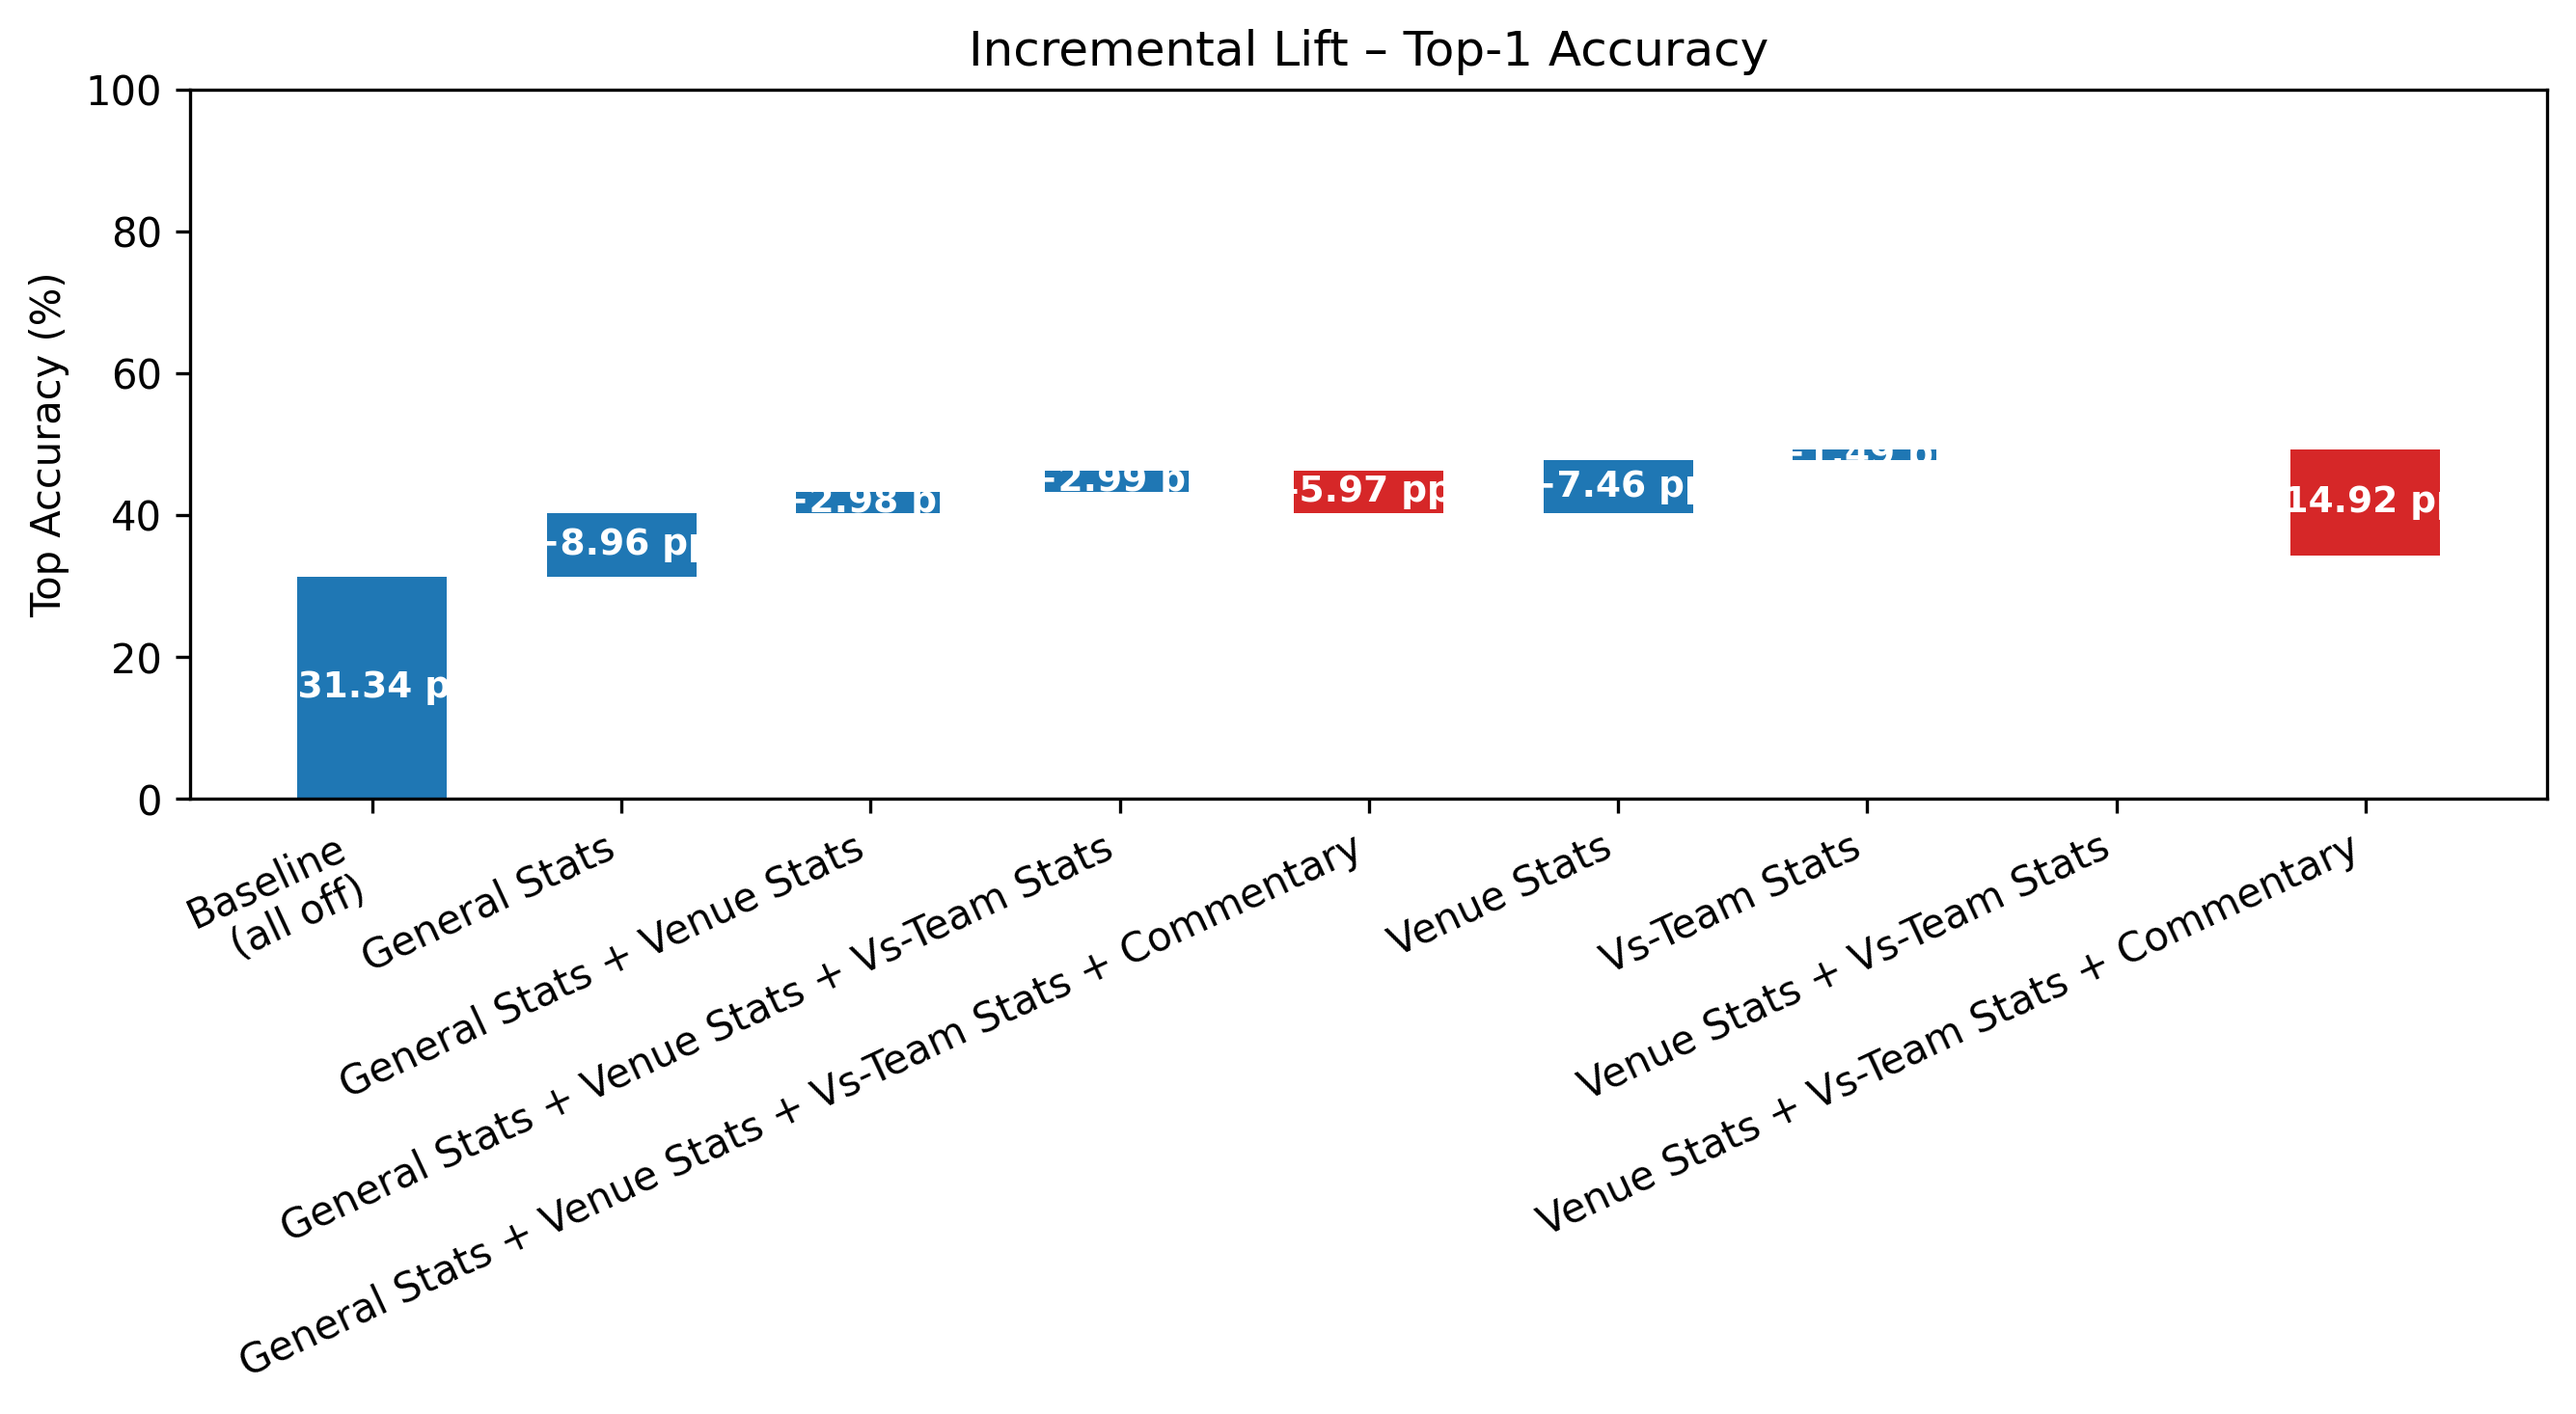
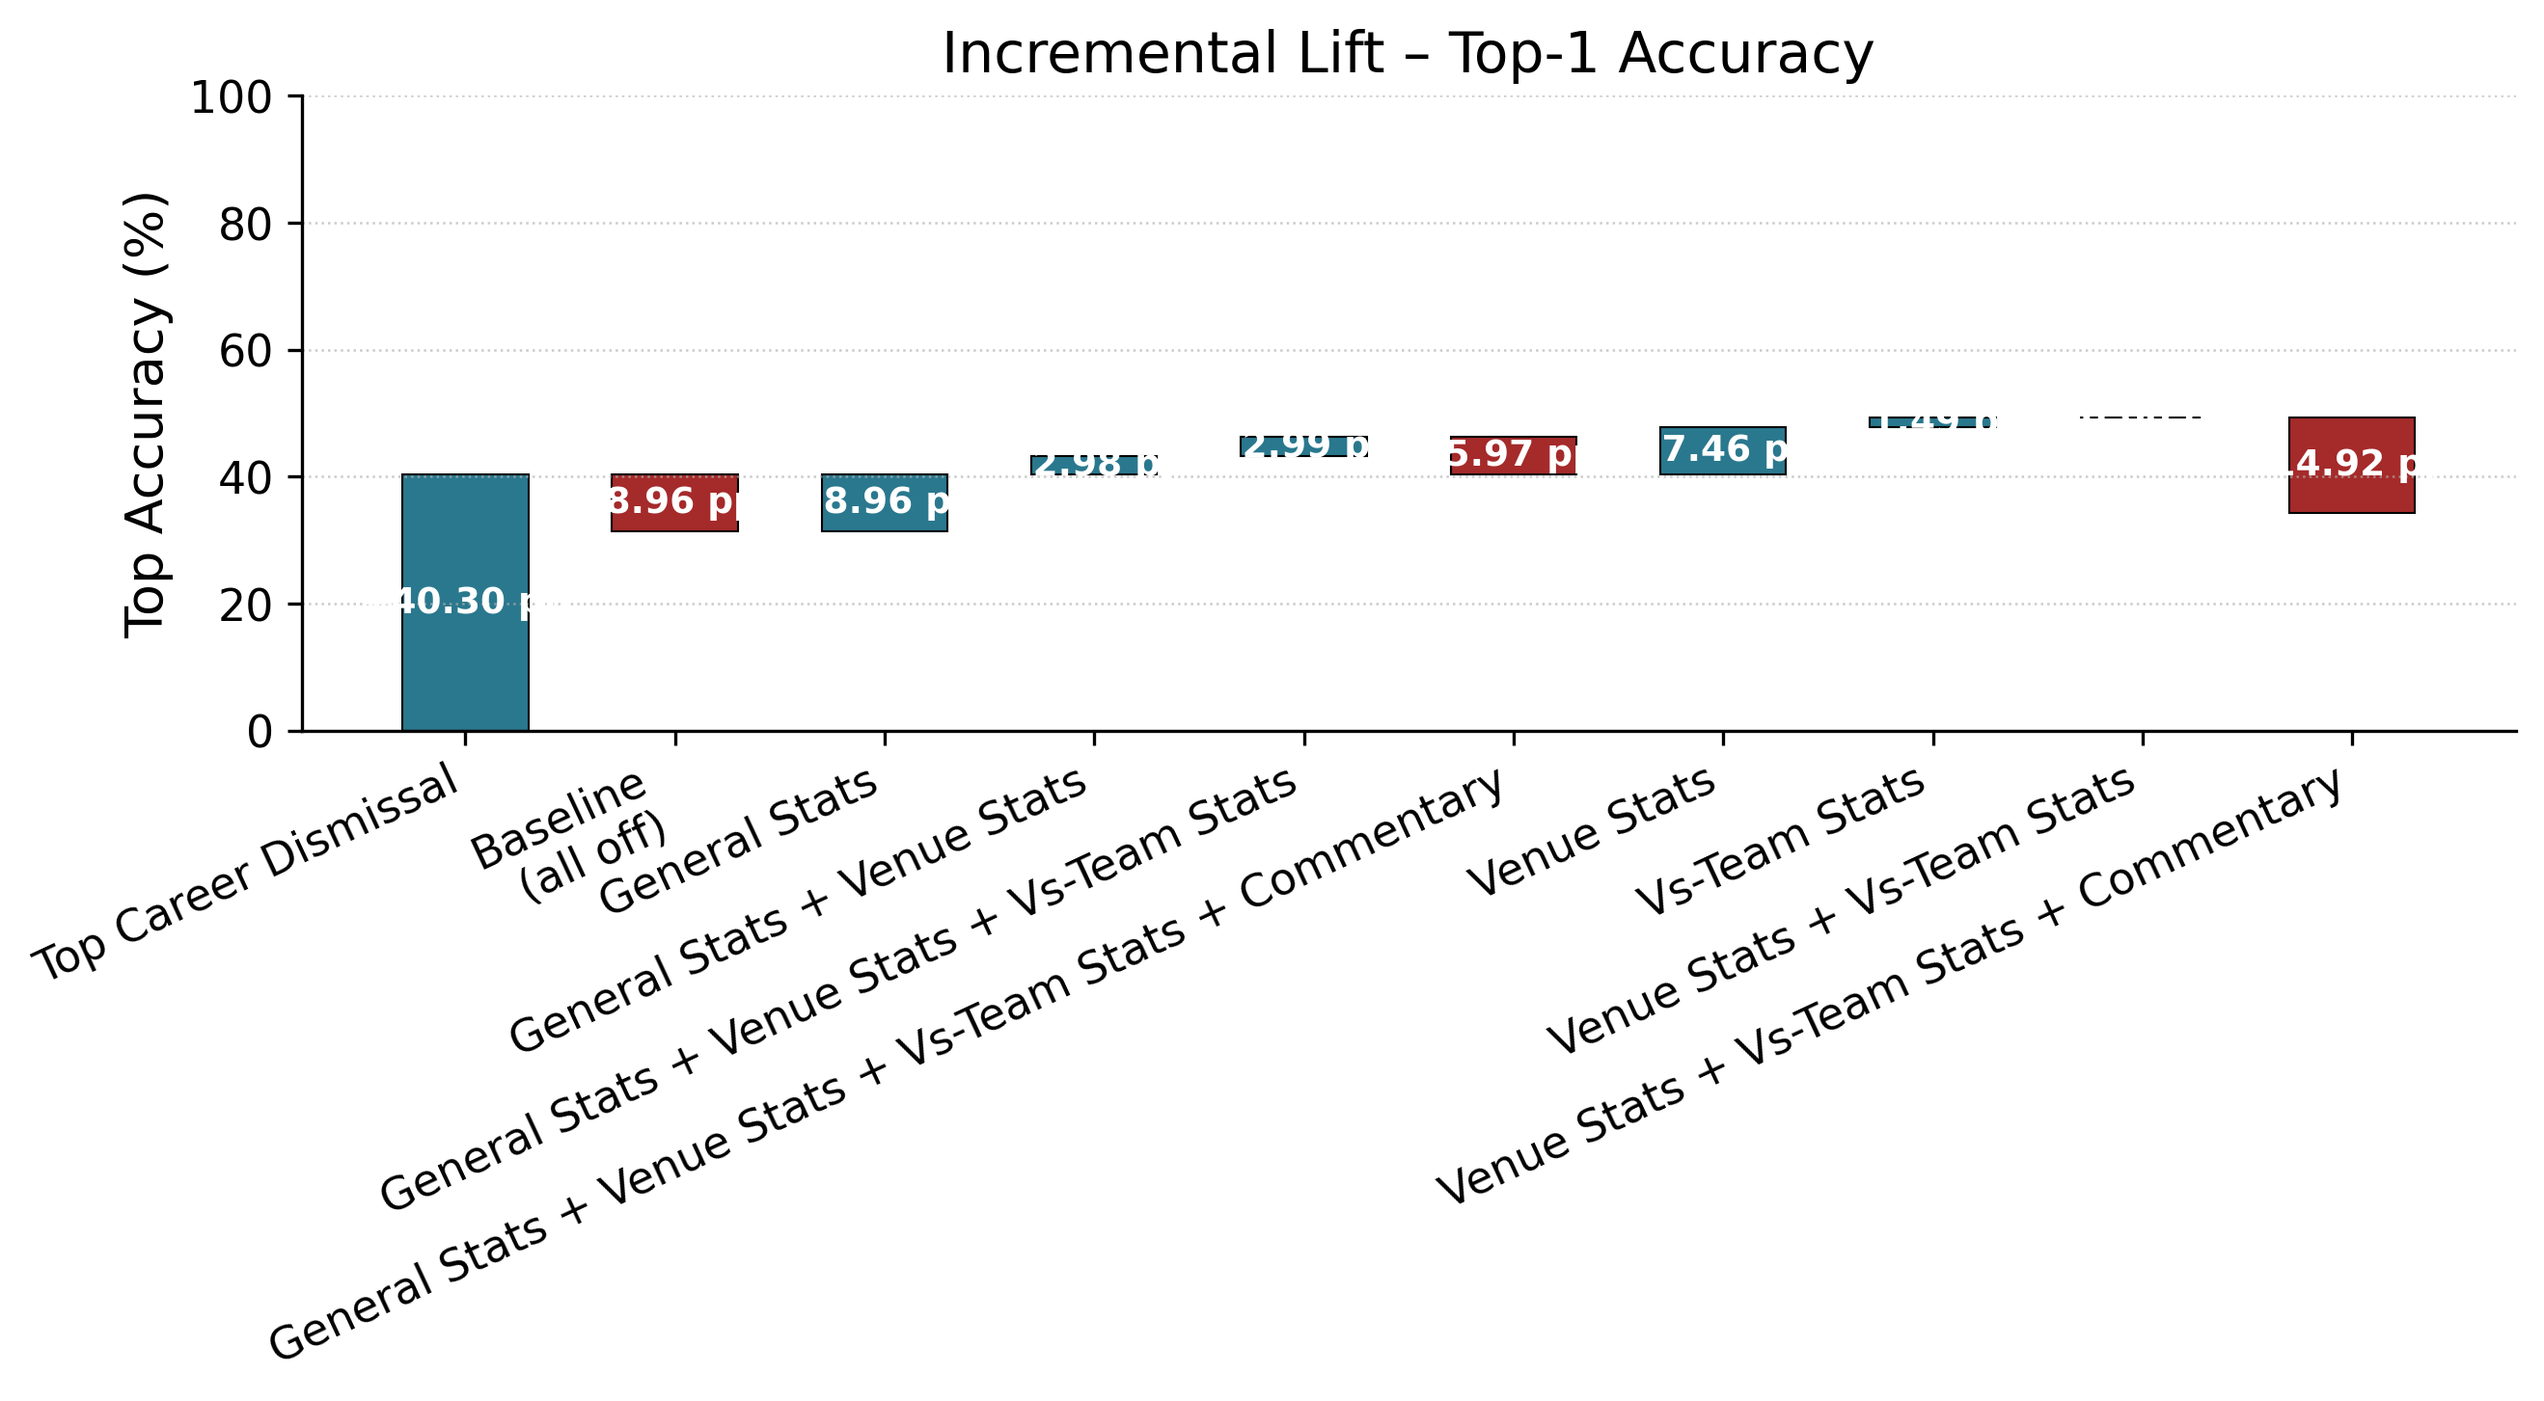
plotting corrections all done

diff --git a/llm/plot_acc.py b/llm/plot_acc.py
@@ -3,12 +3,28 @@ import numpy as np
 import matplotlib.pyplot as plt
 import os
 from scipy.stats import norm
+import subprocess
+import json
+
+plt.rcParams.update({
+    "font.size": 12,
+    "axes.titlesize": 14,
+    "axes.labelsize": 13,
+    "xtick.labelsize": 11,
+    "ytick.labelsize": 11,
+    "legend.fontsize": 11,
+    "figure.facecolor": "white",
+    "axes.facecolor": "white",
+    "axes.edgecolor": "black",
+    "axes.linewidth": 0.8,
+})
 
 # ------------------------------------------------------------------
 # CONFIGURATION
 # ------------------------------------------------------------------
-PLAYER = "Babar Azam"
-MODEL = "o4-mini"
+PLAYER = "Charith Asalanka"
+MODEL = "gpt-4.1"
+TEAM = "Sri Lanka"
 CSV_PATH = f"{PLAYER}_prediction_results_{MODEL}.csv"
 PLOTS_DIR = f"plots/{PLAYER}/{MODEL}"
 os.makedirs(PLOTS_DIR, exist_ok=True)
@@ -20,6 +36,24 @@ WATER_TOP2_PNG   = plot_path("waterfall_top2.png")
 ERR_TOP1_PNG     = plot_path("top1_accuracy_ci.png")
 ERR_TOP2_PNG     = plot_path("top2_accuracy_ci.png")
 HEAT_PNG         = plot_path("recall_heatmap.png")
+
+# ---------------------------------------------------------------
+# NEW: Utilities for loading true dismissal stats
+# ---------------------------------------------------------------
+
+def run_subprocess(command):
+    """Run a shell command and raise error if it fails."""
+    result = subprocess.run(command, shell=True, capture_output=True, text=True)
+    if result.returncode != 0:
+        print(result.stdout)
+        print(result.stderr)
+        raise RuntimeError(f"Subprocess failed: {command}")
+    return result.stdout
+
+def load_json_file(path):
+    """Load a JSON file from disk."""
+    with open(path, "r", encoding="utf-8") as f:
+        return json.load(f)
 
 # ------------------------------------------------------------------
 # 1. Load data
@@ -33,6 +67,63 @@ except FileNotFoundError as e:
     ) from e
 
 df = df.reset_index(drop=True)
+
+# ------------------------------------------------------------------
+# NEW: Compute True Dismissal statistics
+# ------------------------------------------------------------------
+
+# 1) Run external script to generate player stats
+print("\n[INFO] Running get_player_stats.py ...")
+safe_player_name = PLAYER.lower().replace(' ', '_')
+cmd_general = (
+    f"python ../cricinfo_data_scrapping/Scripts/get_player_stats.py "
+    f"\"{PLAYER}\" \"{TEAM}\" all all"
+)
+try:
+    run_subprocess(cmd_general)
+except RuntimeError:
+    print("[WARNING] get_player_stats script may have failed.")
+
+# 2) Load JSON output
+general_stats_filename = f"{safe_player_name}_all_span_stats.json"
+general_stats_path = os.path.join(
+    "..", "cricinfo_data_scrapping", "aggregated_stats", general_stats_filename
+)
+general_stats = load_json_file(general_stats_path)
+
+# 3) Sum dismissal frequencies
+dismissal_map = {
+    "bowled": "Bowled",
+    "caught-fielder": "Caught-Fielder",
+    "caught wk": "Caught-Wicketkeeper",
+    "lbw": "LBW",
+    "stump": "Stumped",
+    "hit wicket": "Hit-Wicket",
+    "caught and bowled": "Caught-and-Bowled",
+}
+
+agg_counts = {label: 0 for label in dismissal_map.values()}
+for entry in general_stats["dismissals"]:
+    for key, label in dismissal_map.items():
+        agg_counts[label] += entry.get(key, 0)
+
+# Add Not-Outs
+agg_counts["Not-Out"] = general_stats["batting"]["Not Outs"]
+print(agg_counts)
+
+# Determine top-1 mode
+top1_mode = max(agg_counts.items(), key=lambda x: x[1])[0]
+
+# Determine top-2 modes
+sorted_modes = sorted(
+    agg_counts.items(), key=lambda x: x[1], reverse=True
+)
+top2_modes = [sorted_modes[0][0]]
+if len(sorted_modes) > 1:
+    top2_modes.append(sorted_modes[1][0])
+
+print(f"[INFO] True top-1 mode: {top1_mode}")
+print(f"[INFO] True top-2 modes: {top2_modes}")
 
 # ------------------------------------------------------------------
 # 2. Normalize feature flag formats ("on"/"off" → 1/0)
@@ -99,6 +190,29 @@ def topk_hit(row, k=2):
 df["top2_correct"] = df.apply(topk_hit, axis=1)
 
 # ------------------------------------------------------------------
+# NEW: Compute true-mode correctness
+# ------------------------------------------------------------------
+
+# Add constant columns for true top-1 and top-2 modes
+df["most_frequent_mode"] = top1_mode
+df["top1_true_mode_correct"] = (
+    df["most_frequent_mode"].str.strip() ==
+    df["mode_of_dismissal_ground_truth"].str.strip()
+)
+
+df["top2_true_mode_correct"] = df["mode_of_dismissal_ground_truth"].str.strip().isin(top2_modes)
+
+# Compute overall true top-1 and top-2 accuracy
+true_top1_accuracy = df["top1_true_mode_correct"].mean() * 100
+true_top2_accuracy = df["top2_true_mode_correct"].mean() * 100
+
+# Store n
+true_n = len(df)
+
+print(f"[INFO] True Top-1 Accuracy: {true_top1_accuracy:.2f}%")
+print(f"[INFO] True Top-2 Accuracy: {true_top2_accuracy:.2f}%")
+
+# ------------------------------------------------------------------
 # 6. Aggregate accuracy by block
 # ------------------------------------------------------------------
 summary = (
@@ -115,6 +229,26 @@ summary = summary.sort_values("block")
 summary["top1_acc"] = (summary["top1_acc"] * 100).round(2)
 summary["top2_acc"] = (summary["top2_acc"] * 100).round(2)
 
+# ------------------------------------------------------------------
+# NEW: Add True Dismissal row to summary
+# ------------------------------------------------------------------
+
+true_row = pd.DataFrame([{
+    "block": "Top Career Dismissal",
+    "top1_acc": round(true_top1_accuracy, 2),
+    "top2_acc": round(true_top2_accuracy, 2),
+    "n": true_n
+}])
+
+# Prepend True dismissal row at the start
+summary = pd.concat([true_row, summary], ignore_index=True)
+
+# Update categorical ordering
+new_order = ["Top Career Dismissal"] + unique_order
+summary["block"] = pd.Categorical(summary["block"], categories=new_order, ordered=True)
+summary = summary.sort_values("block")
+
+
 print("\n=== Accuracy per Feature Block ===")
 print(summary.to_string(index=False))
 
@@ -126,15 +260,27 @@ def make_bar(summary_col: str, ylabel: str, title: str, save_path: str):
     colors = []
     for i in range(len(values)):
         if i == 0:
-            colors.append("gray")
+            colors.append("#999999")   # baseline grey
         else:
-            colors.append("tab:blue" if values[i] >= values[i - 1] else "tab:red")
-    plt.figure(figsize=(8, 5))
-    plt.bar(summary["block"], values, color=colors)
-    plt.ylabel(ylabel)
-    plt.title(title)
-    plt.ylim(0, 100)
-    plt.xticks(rotation=25, ha="right")
+            colors.append("#2A788E")   # teal
+
+    fig, ax = plt.subplots(figsize=(8, 5), dpi=150)
+    bars = ax.bar(
+        summary["block"],
+        values,
+        color=colors,
+        edgecolor="black",
+        linewidth=0.5,
+    )
+    ax.set_ylabel(ylabel)
+    ax.set_title(title)
+    ax.set_ylim(0, 100)
+    ax.set_xticklabels(summary["block"], rotation=25, ha="right")
+
+    # Add grid and style
+    ax.grid(axis="y", linestyle=":", linewidth=0.6, alpha=0.65)
+    ax.spines[["right", "top"]].set_visible(False)
+
     plt.tight_layout()
     plt.savefig(save_path, dpi=300, bbox_inches="tight")
     plt.close()
@@ -155,18 +301,41 @@ def waterfall(col_delta: str, col_cum: str, out_path: str, title: str):
     dx = summary["block"]
     delta = summary[col_delta]
     cum = summary[col_cum]
-    fig, ax = plt.subplots(figsize=(9, 5))
+
+    fig, ax = plt.subplots(figsize=(9, 5), dpi=150)
     base = 0
     for i, (lbl, gain) in enumerate(zip(dx, delta)):
-        color = "tab:blue" if gain >= 0 else "tab:red"
-        ax.bar(i, gain, bottom=base, width=0.6, color=color)
-        ax.text(i, base + gain/2, f"{gain:+.2f} pp", ha="center", va="center", color="white", fontsize=9, weight="bold")
+        color = "#2A788E" if gain >= 0 else "#A52A2A"
+        ax.bar(
+            i,
+            gain,
+            bottom=base,
+            width=0.6,
+            color=color,
+            edgecolor="black",
+            linewidth=0.5,
+        )
+        ax.text(
+            i,
+            base + gain / 2,
+            f"{gain:+.2f} pp",
+            ha="center",
+            va="center",
+            color="white",
+            fontsize=9,
+            weight="bold",
+        )
         base += gain
+
     ax.set_xticks(range(len(dx)))
     ax.set_xticklabels(dx, rotation=25, ha="right")
     ax.set_ylabel("Top Accuracy (%)")
     ax.set_title(title)
     ax.set_ylim(0, 100)
+
+    ax.grid(axis="y", linestyle=":", linewidth=0.6, alpha=0.65)
+    ax.spines[["right", "top"]].set_visible(False)
+
     plt.tight_layout()
     plt.savefig(out_path, dpi=300, bbox_inches="tight")
     plt.close()
@@ -190,19 +359,36 @@ def save_errorbar(col_acc: str, out_path: str, title: str):
     summary["error_below"] = summary[col_acc] - summary["ci_low"]
     summary["error_above"] = summary["ci_high"] - summary[col_acc]
 
-    fig, ax = plt.subplots(figsize=(10, 6))
-    bars = ax.bar(summary["block"], summary[col_acc],
-                  yerr=[summary["error_below"], summary["error_above"]],
-                  capsize=6, color="mediumpurple", alpha=0.8)
+    fig, ax = plt.subplots(figsize=(10, 6), dpi=150)
+    bars = ax.bar(
+        summary["block"],
+        summary[col_acc],
+        yerr=[summary["error_below"], summary["error_above"]],
+        capsize=6,
+        color="#2A788E",
+        edgecolor="black",
+        linewidth=0.5,
+        alpha=0.85,
+    )
 
-    for bar, low, high in zip(bars, summary["ci_low"], summary["ci_high"]):
+    for bar in bars:
         height = bar.get_height()
-        ax.text(bar.get_x() + bar.get_width() / 2, height + 2,
-                f"  [{low:.1f}, {high:.1f}]%", ha='center', va='bottom', fontsize=9)
+        ax.text(
+            bar.get_x() + bar.get_width() / 2,
+            height + 2,
+            f"{height:.1f}%",
+            ha="center",
+            va="bottom",
+            fontsize=9,
+        )
 
     ax.set_ylabel("Accuracy (%)")
     ax.set_title(title + " (95% Wilson CI with bounds)")
     ax.set_ylim(0, 100)
+
+    ax.grid(axis="y", linestyle=":", linewidth=0.6, alpha=0.65)
+    ax.spines[["right", "top"]].set_visible(False)
+
     plt.xticks(rotation=25, ha="right")
     plt.tight_layout()
     plt.savefig(out_path, dpi=300, bbox_inches="tight")
@@ -228,10 +414,10 @@ def recall_for_block(block_name):
         recalls.append(correct / total if total else np.nan)
     return np.array(recalls)
 
-rec_baseline = recall_for_block(unique_order[0])
+blocks_cmp = ["Top Career Dismissal", unique_order[-1]]
+rec_baseline = recall_for_block("Top Career Dismissal")
 rec_full = recall_for_block(unique_order[-1])
 rec_matrix = np.vstack([rec_baseline, rec_full]) * 100
-blocks_cmp = [unique_order[0], unique_order[-1]]
 
 fig, ax = plt.subplots(figsize=(11, 3))
 im = ax.imshow(rec_matrix, cmap="YlOrRd", vmin=0, vmax=100)
